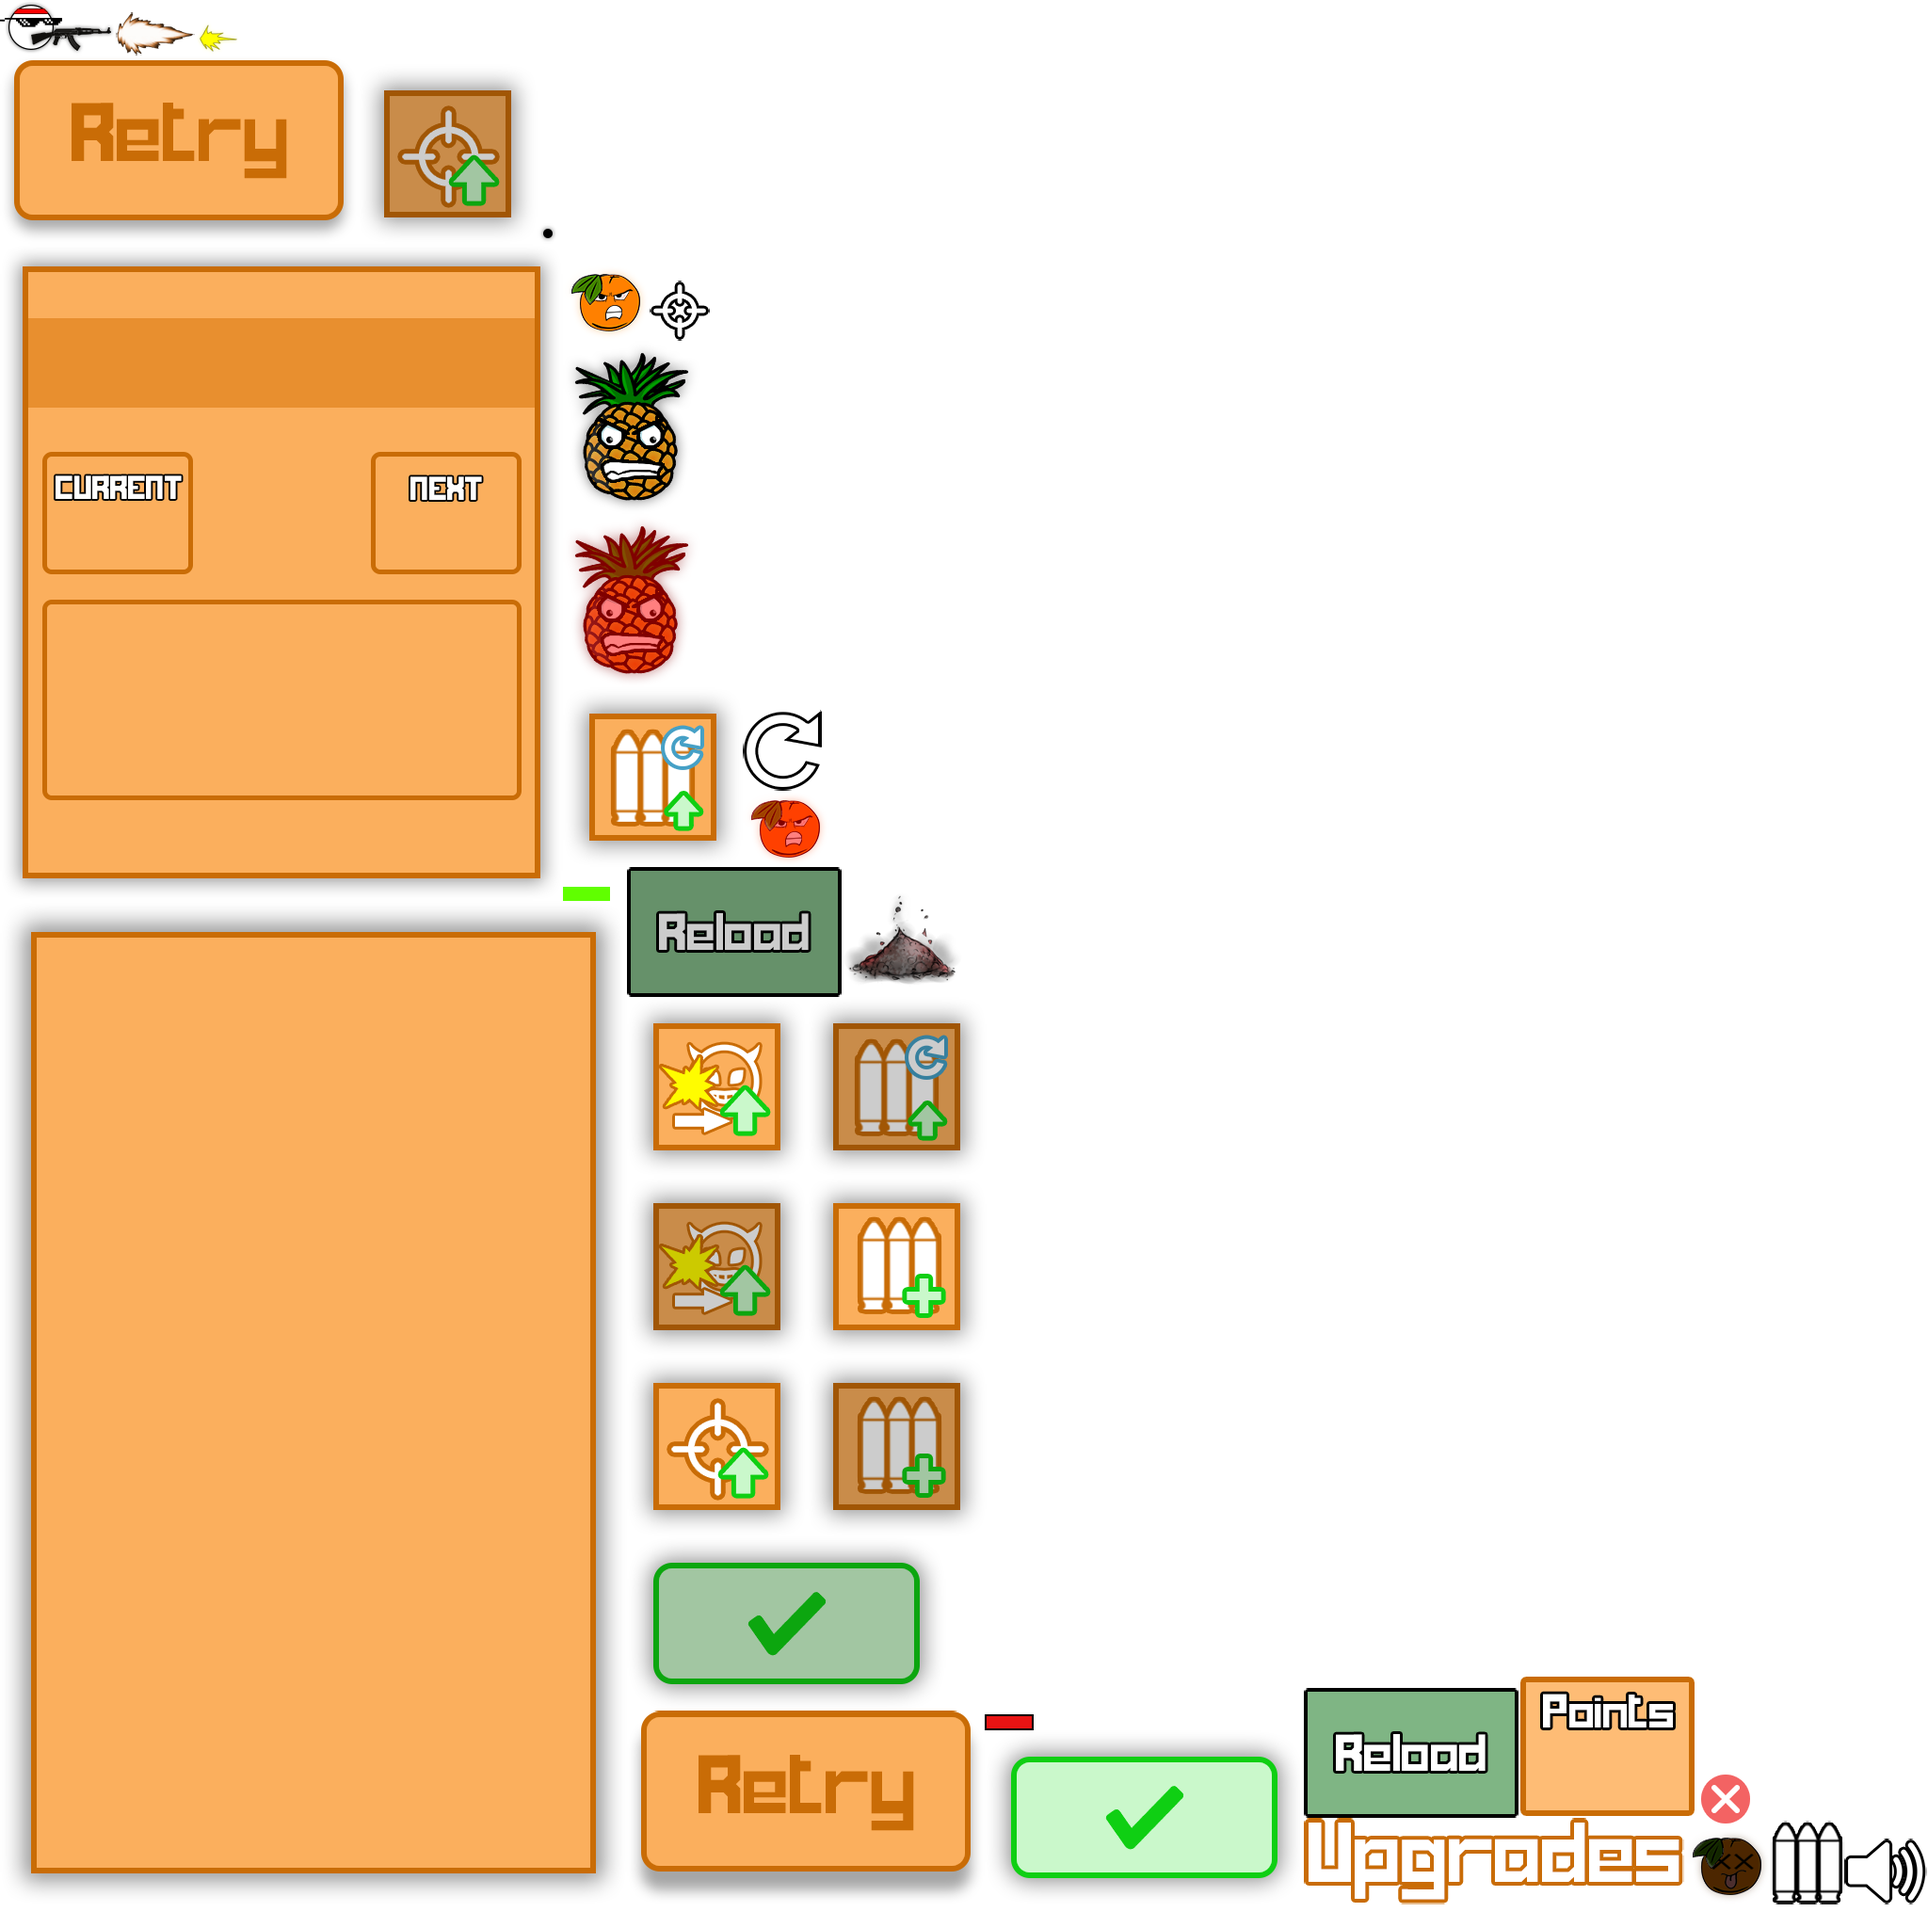
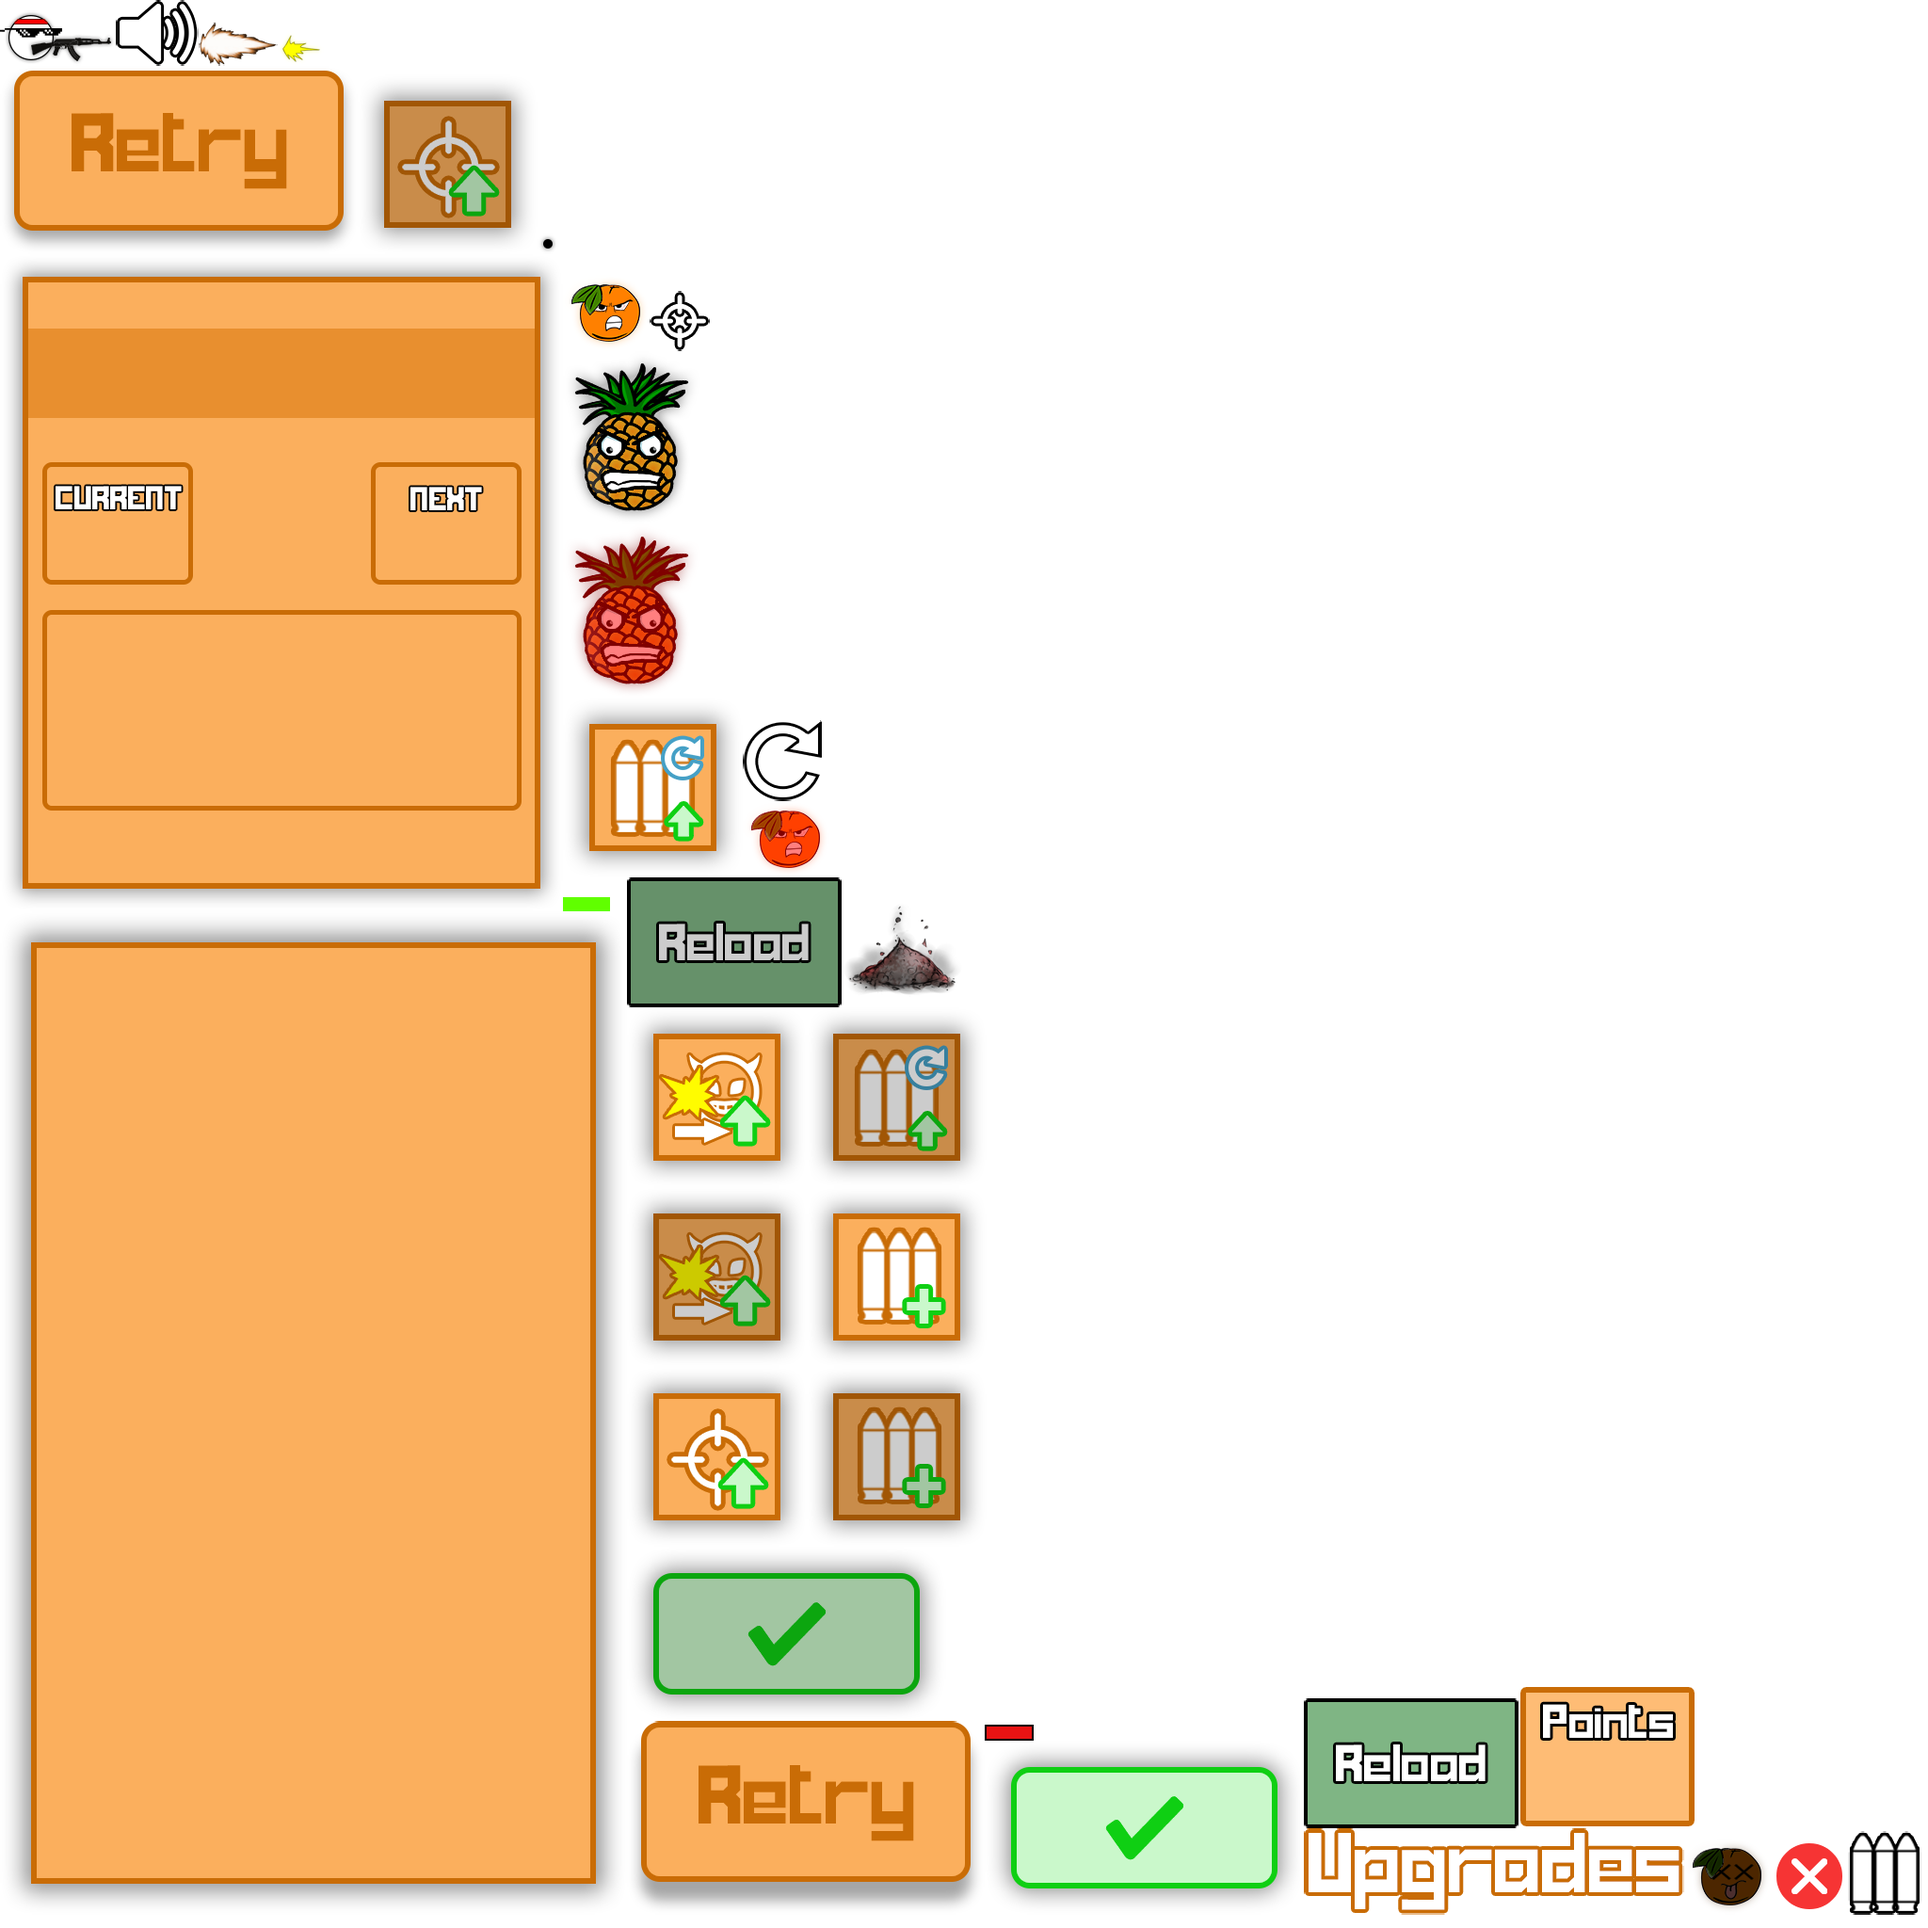
no message

Changed region(s): [[0.0, 0.0, 1.0, 1.0]]

diff --git a/core/src/com/nahroto/fruitdestroyer/screens/LoadingScreen2.java b/core/src/com/nahroto/fruitdestroyer/screens/LoadingScreen2.java
@@ -79,6 +79,9 @@ public class LoadingScreen2 implements Screen
     private Sound waveSFX;
     private WaveGenerator waveGenerator;
 
+    private GameHud gameHud;
+    private BuyHud buyHud;
+
     public LoadingScreen2(final Application APP, final Font font, Texture bg)
     {
         this.APP = APP;
@@ -156,7 +159,9 @@ public class LoadingScreen2 implements Screen
         collisionHandler = new CollisionHandler(deadScreen, currentEnemies, currentBullets);
         waveSFX = APP.assets.get("sounds/victory.ogg", Sound.class);
         waveGenerator = new WaveGenerator(totalEnemies, currentEnemies, totalOranges, totalAnanases);
-        gameScreen = new GameScreen(APP, waveGenerator, totalEnemies, currentEnemies, totalOranges, totalAnanases, currentCorpses, totalOrangeCorpses, totalAnanasCorpses, totalBullets, currentBullets, totalExplosions, currentExplosions, new GameHud(player, APP.viewport, APP.batch, gameScreenAtlas.findRegion("reload-up"), gameScreenAtlas.findRegion("reload-down"), gameScreenAtlas.findRegion("bullet-icon"), gameScreenAtlas.findRegion("volumeButton"), actionMusic), new BuyHud(APP.viewport, APP.batch, gameScreenAtlas, blackShaderTexture, waveSFX, waveGenerator, inputMultiplexer, player), bg, player, inputMultiplexer, new Font("fonts/trompus.otf", 50, Color.WHITE, Color.BLACK, 3, true), ammoStatus, inputHandler, new Input(), collisionHandler, actionMusic, gameScreenAtlas.createSprite("reload-icon"), waveSFX, gameScreenAtlas.createSprite("accuracy-icon"));
+        gameHud = new GameHud(player, APP.viewport, APP.batch, gameScreenAtlas.findRegion("reload-up"), gameScreenAtlas.findRegion("reload-down"), gameScreenAtlas.findRegion("bullet-icon"), gameScreenAtlas.findRegion("volumeButton"), actionMusic);
+        buyHud = new BuyHud(APP.viewport, APP.batch, gameHud, gameScreenAtlas, blackShaderTexture, waveSFX, waveGenerator, inputMultiplexer, player);
+        gameScreen = new GameScreen(APP, waveGenerator, totalEnemies, currentEnemies, totalOranges, totalAnanases, currentCorpses, totalOrangeCorpses, totalAnanasCorpses, totalBullets, currentBullets, totalExplosions, currentExplosions, gameHud, buyHud, bg, player, inputMultiplexer, new Font("fonts/trompus.otf", 50, Color.WHITE, Color.BLACK, 3, true), ammoStatus, inputHandler, new Input(), collisionHandler, actionMusic, gameScreenAtlas.createSprite("reload-icon"), waveSFX, gameScreenAtlas.createSprite("accuracy-icon"));
 
         gameResetter.setGameScreen(gameScreen);
     }

diff --git a/core/src/com/nahroto/fruitdestroyer/huds/BuyHud.java b/core/src/com/nahroto/fruitdestroyer/huds/BuyHud.java
@@ -60,13 +60,13 @@ public class BuyHud extends Hud
     private Runnable toggleBuying;
     private Runnable resetPosition;
     private Runnable hideBlackShader;
-    private Runnable startNewWave;
+    private Runnable animateWave;
     private Runnable setGameScreenInput;
     private Runnable turnON;
 
     private InputMultiplexer inputMultiplexer;
 
-    public BuyHud(Viewport viewport, SpriteBatch batch, TextureAtlas gameScreenAtlas, Texture blackShaderTexture, final Sound waveSFX, final WaveGenerator waveGenerator, final InputMultiplexer gameScreenInput, Player player)
+    public BuyHud(Viewport viewport, SpriteBatch batch, final GameHud gameHud, TextureAtlas gameScreenAtlas, Texture blackShaderTexture, final Sound waveSFX, final WaveGenerator waveGenerator, final InputMultiplexer gameScreenInput, Player player)
     {
         super(viewport, batch);
 
@@ -102,14 +102,12 @@ public class BuyHud extends Hud
             }
         };
 
-        startNewWave = new Runnable()
+        animateWave = new Runnable()
         {
             @Override
             public void run()
             {
-                waveSFX.play();
-                WaveGenerator.wave++;
-                waveGenerator.startNewWave();
+                gameHud.animateWaveLabel();
             }
         };
 
@@ -299,7 +297,7 @@ public class BuyHud extends Hud
     {
         overlay.addAction(sequence(
                 parallel(moveToAligned(0, Constants.V_HEIGHT / 2, Align.right, EASE_TIME, Interpolation.pow2Out), run(hideBlackShader)),
-                run(startNewWave),
+                run(animateWave),
                 run(setGameScreenInput),
                 run(toggleBuying),
                 run(resetPosition)

diff --git a/core/src/com/nahroto/fruitdestroyer/huds/GameHud.java b/core/src/com/nahroto/fruitdestroyer/huds/GameHud.java
@@ -29,6 +29,7 @@ import static com.badlogic.gdx.scenes.scene2d.actions.Actions.*;
 public class GameHud extends Hud
 {
     public static boolean reloadingIsAllowed = true;
+    public boolean animatingWave;
 
     private ImageButton reloadButton;
     private ImageButton soundButton;
@@ -77,7 +78,7 @@ public class GameHud extends Hud
         soundButton.setPosition(10, Constants.V_HEIGHT - 10, Align.topLeft);
         bulletIcon.setPosition(20, 17);
         waveLabel.setPosition(Constants.V_WIDTH / 2 - (waveFont.getWidth("Wave " + WaveGenerator.wave.toString()) / 2), Constants.V_HEIGHT - 100);
-        whiteShader.setPosition(-80, 80);
+        whiteShader.setPosition(-80, -80);
 
         reloadButton.addListener(new ClickListener()
         {
@@ -110,6 +111,20 @@ public class GameHud extends Hud
         actors.add(waveLabel);
 
         addAllActors();
+    }
+
+    private void updateWaveText()
+    {
+        waveLabel.setText("Wave " + WaveGenerator.wave.toString());
+    }
+
+    public void animateWaveLabel()
+    {
+        Logger.log("activated");
+        animatingWave = true;
+        waveLabel.addAction(moveTo(waveLabel.getX(), Constants.V_HEIGHT + 100, 1f));
+
+        updateWaveText();
     }
 
     public void animateWhiteShader()

diff --git a/core/src/com/nahroto/fruitdestroyer/screens/GameScreen.java b/core/src/com/nahroto/fruitdestroyer/screens/GameScreen.java
@@ -286,7 +286,7 @@ public class GameScreen implements Screen
             // WHEN WAVE IS CLEARED, START NEW WAVE
             if (currentEnemies.size == 0 && waveGenerator.getQueue().size == 0)
             {
-                if (waveGenerator.wave % WaveGenerator.BUY_WAVE == 0)
+                if (waveGenerator.wave % WaveGenerator.BUY_WAVE == 0 && !gameHud.animatingWave)
                 {
                     Input.touchDown = false;
                     buying = true;
@@ -297,9 +297,7 @@ public class GameScreen implements Screen
                 }
                 else
                 {
-                    waveSFX.play();
-                    waveGenerator.wave++;
-                    waveGenerator.startNewWave();
+                    Logger.log("freedom");
                 }
             }
         }

diff --git a/core/src/com/nahroto/fruitdestroyer/huds/upgradeoverlays/UpgradeOverlay.java b/core/src/com/nahroto/fruitdestroyer/huds/upgradeoverlays/UpgradeOverlay.java
@@ -111,7 +111,7 @@ public abstract class UpgradeOverlay
         currentValueLabel.setPosition(background.getX() + 135, background.getY() + 405, Align.top);
         nextValueLabel.setPosition(background.getX() + 485, background.getY() + 405, Align.top);
         descriptionLabel.setPosition(background.getX() + 60, background.getY() + 305, Align.topLeft);
-        exitButton.setPosition(background.getX() + background.getWidth() - 60, background.getY() + background.getHeight() - 60);
+        exitButton.setPosition(background.getX() + background.getWidth() - 32, background.getY() + background.getHeight() - 32, Align.center);
     }
 
     public void update()
